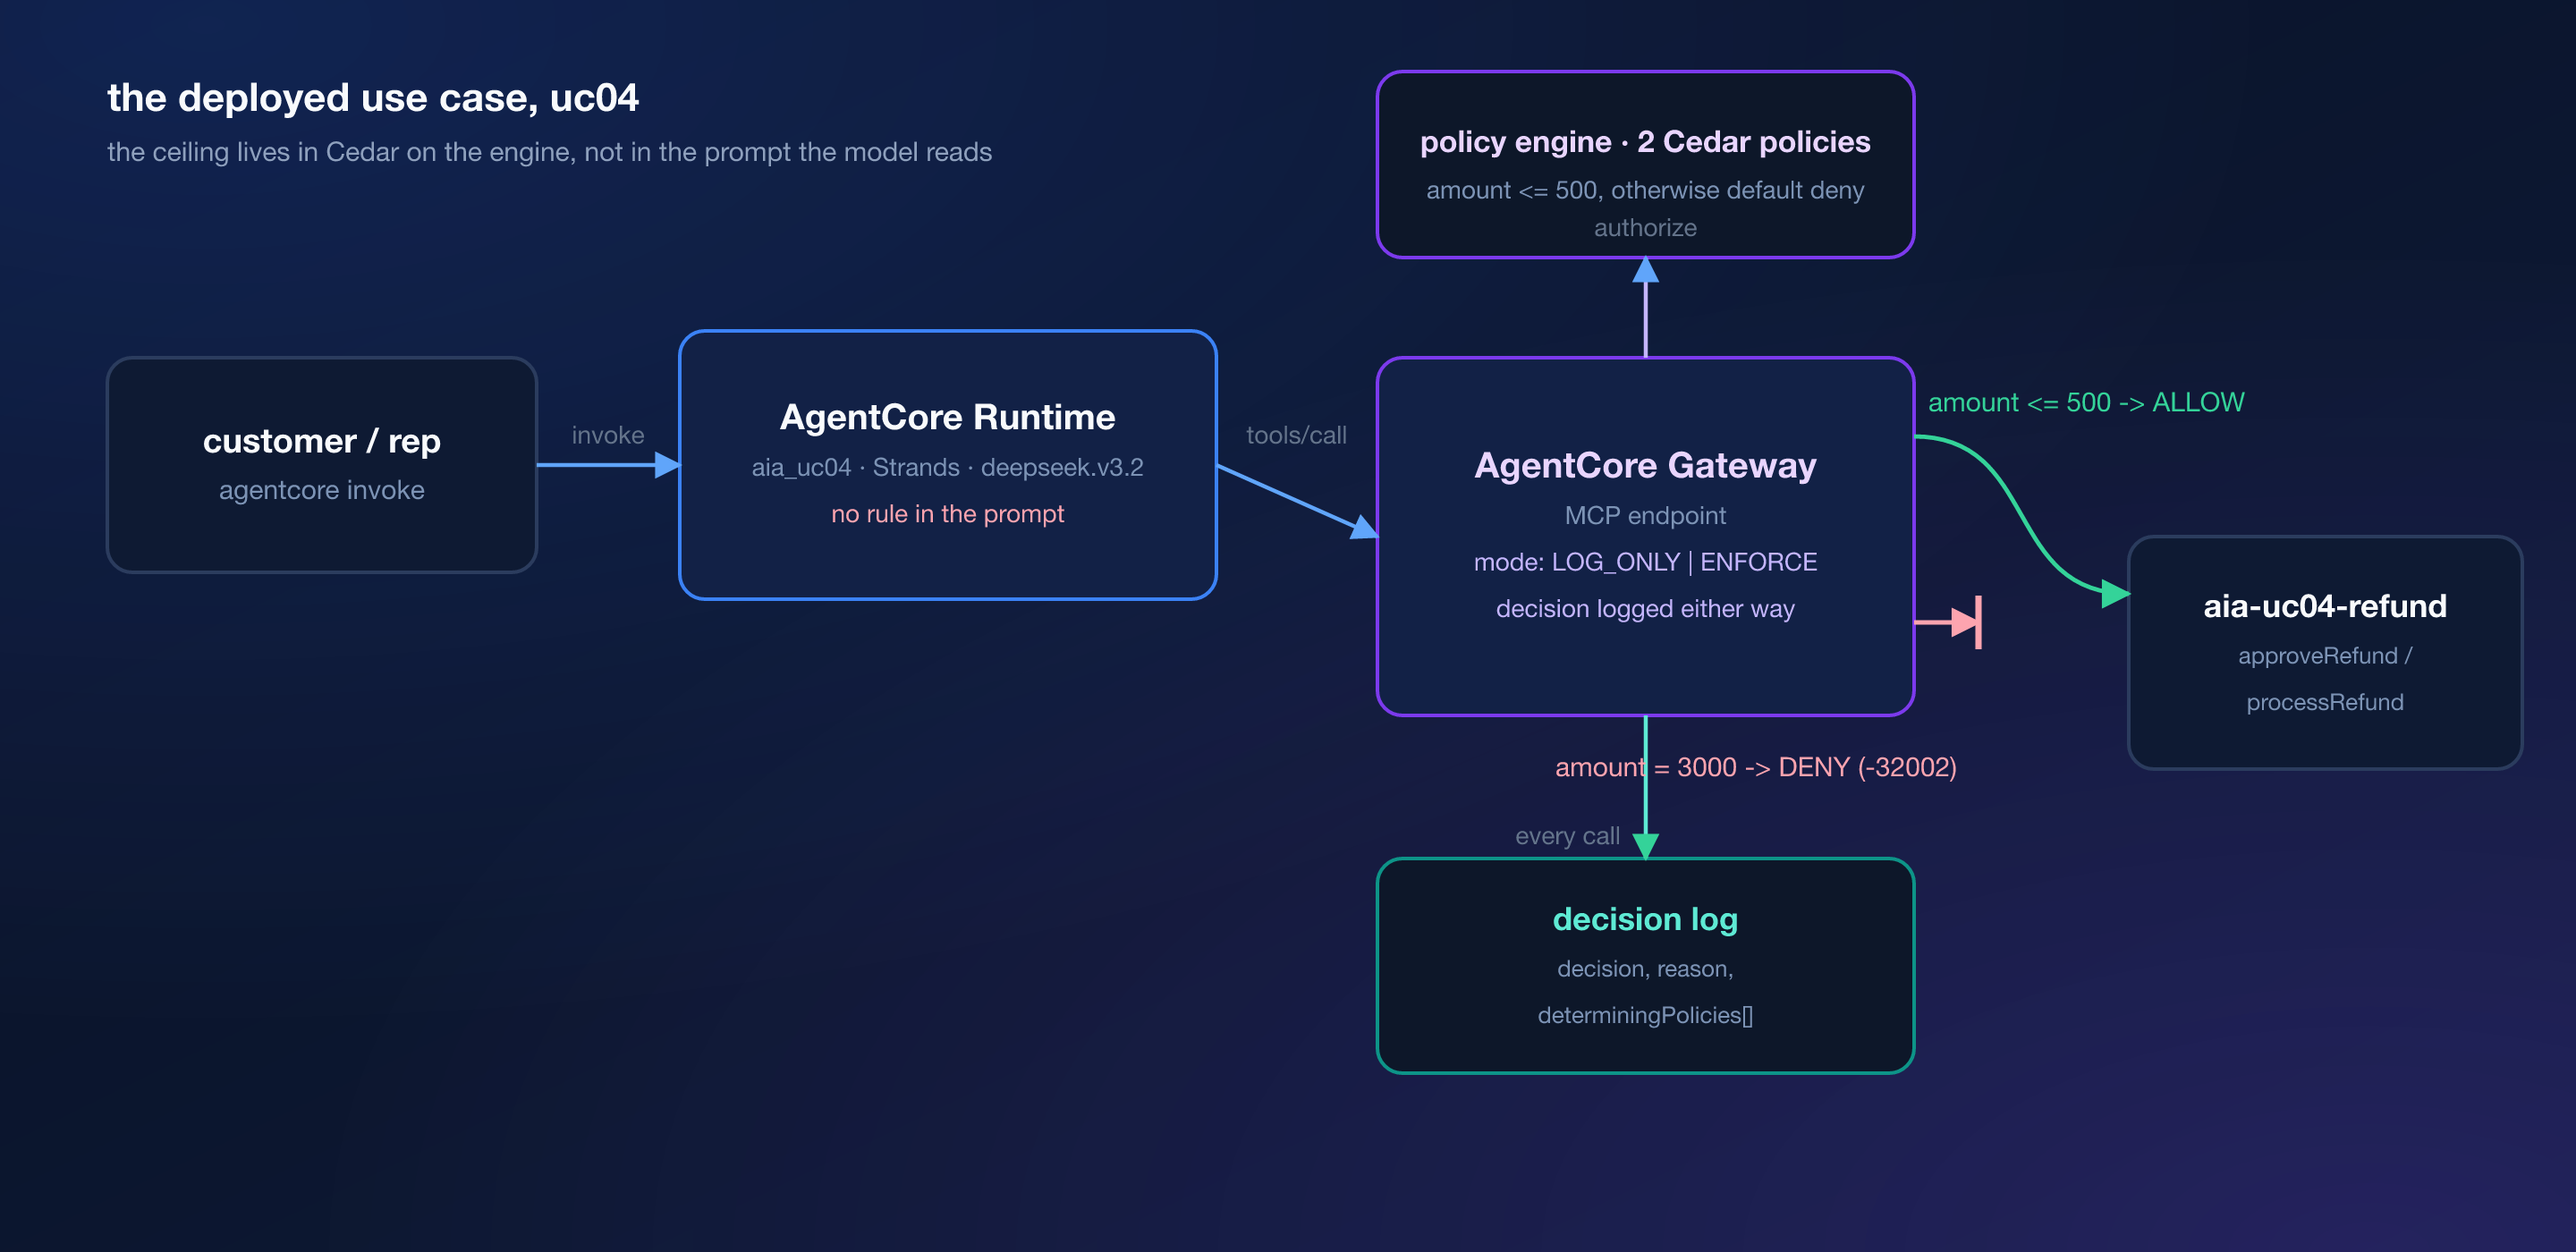
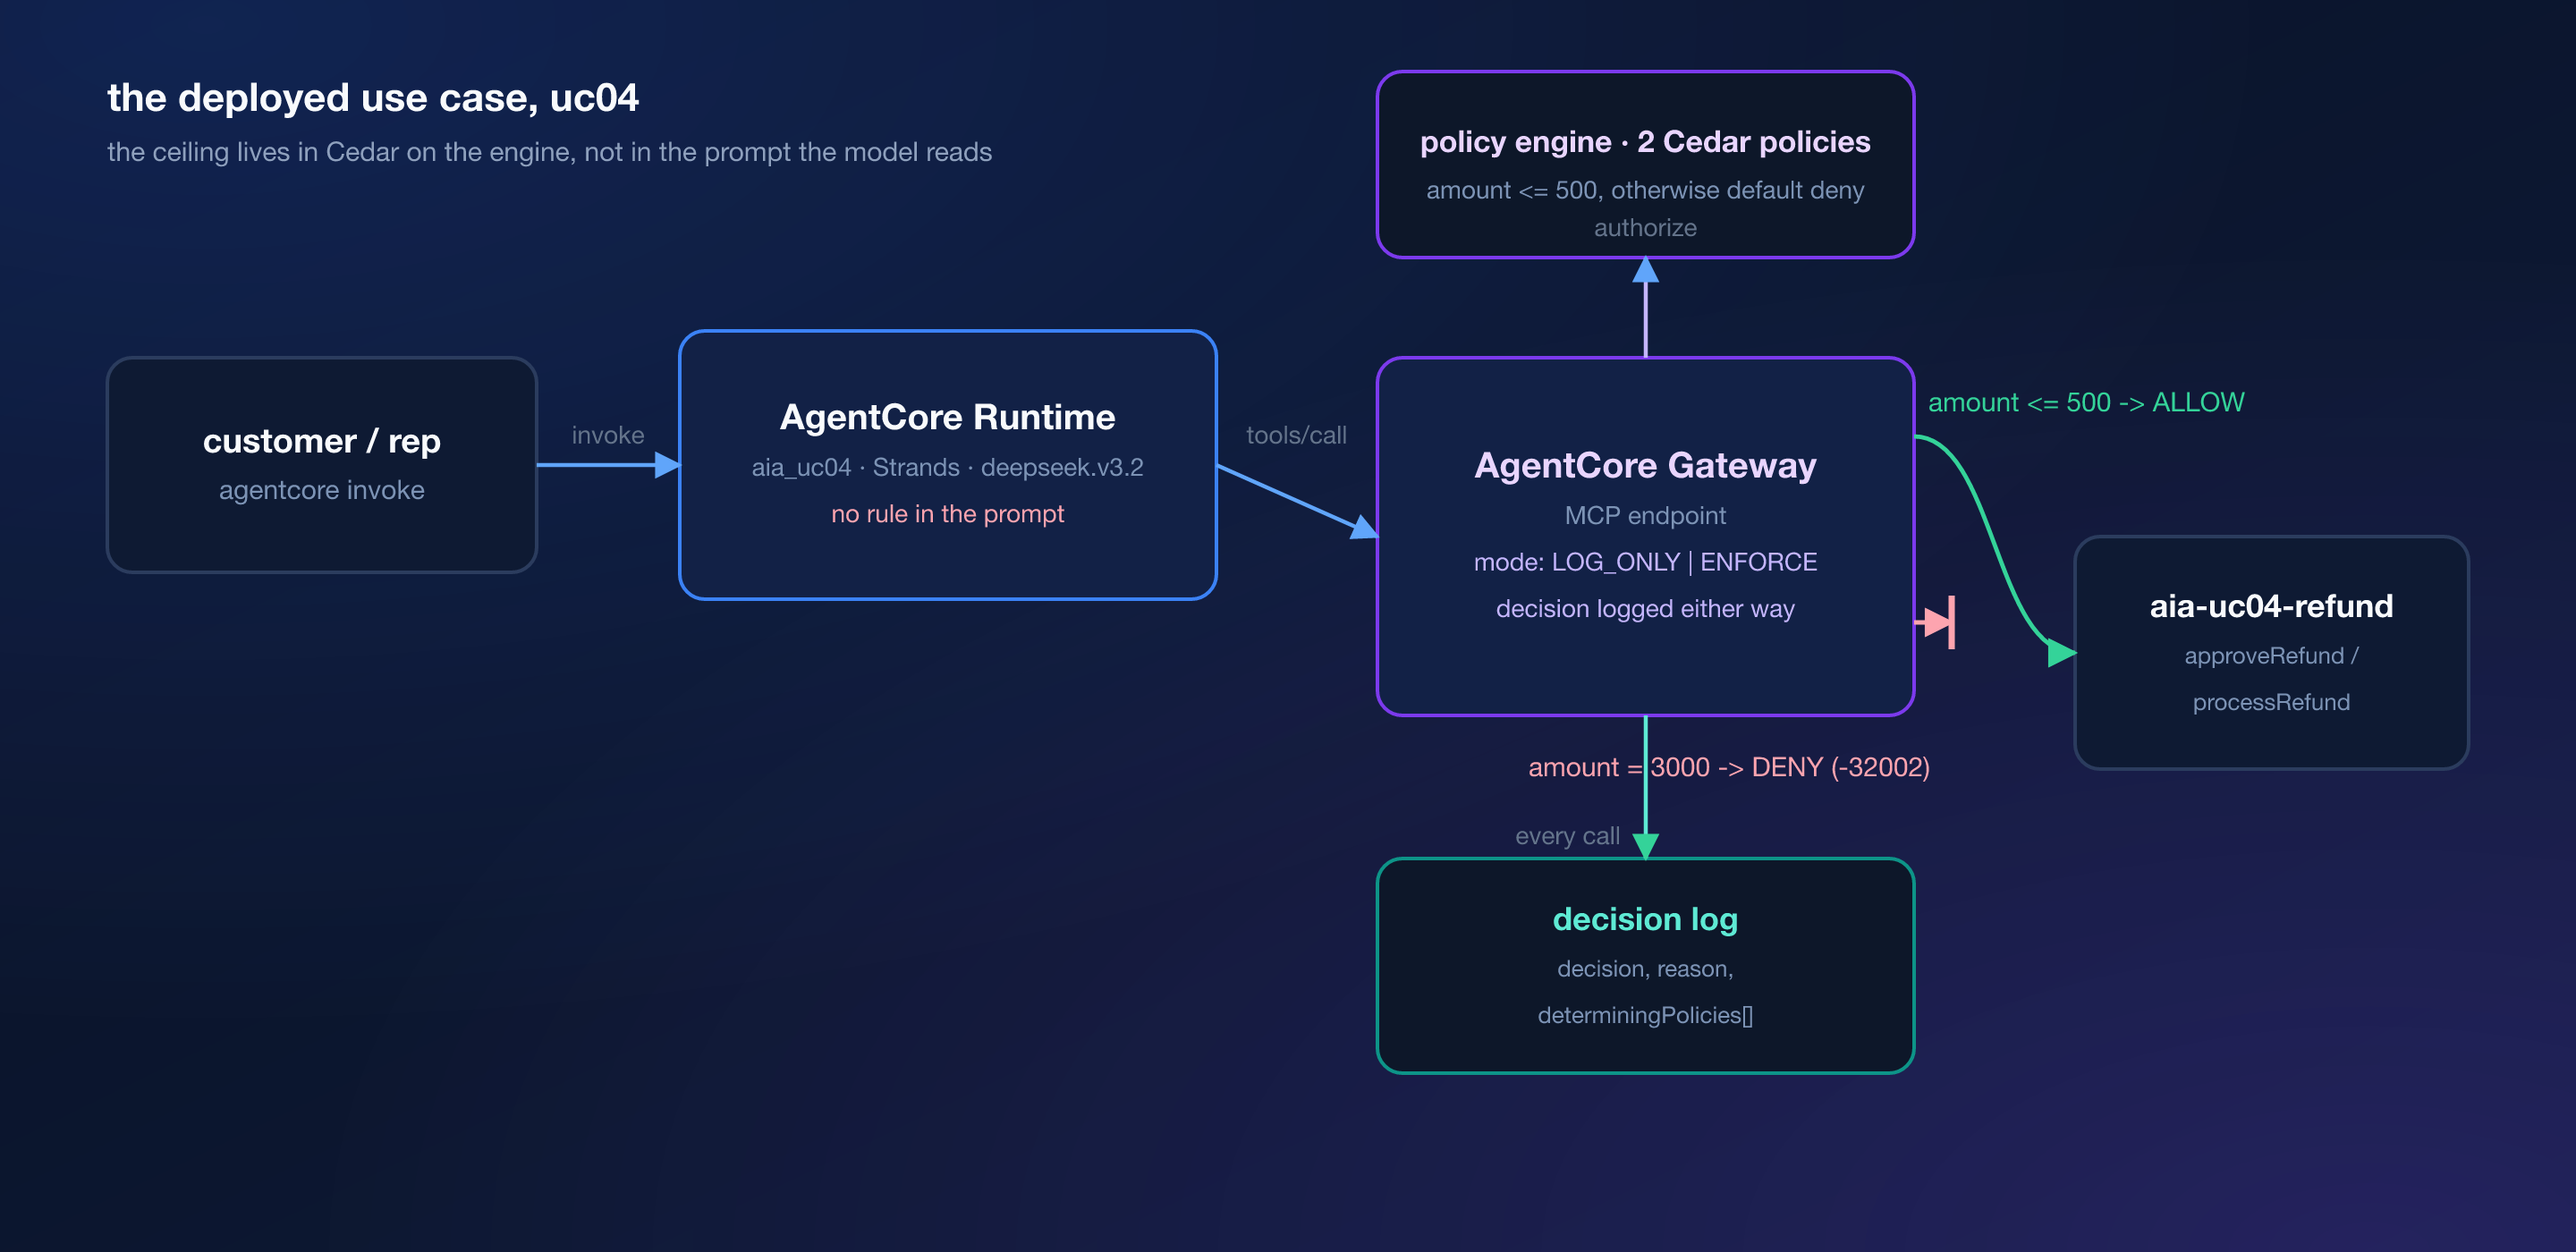
uc04: close verifier defects (figure coverage, S5 command fidelity, S11 tab, F1 geometry)
B1: render D1-backend-setup and D2-gateway-adds from evidence 05/06/07 and
10/11 so every demonstrated command block now has its output figure.
B2: S5 panel was missing --description and --enforcement-mode ACTIVE that
the real commands carried (per the CLI-written contract and README);
panel now matches the article block verbatim.
B3: gen_figures.py stripped tabs before expanding them, so S11 rendered
deny_logonly as 1.02.0; order fixed, panel now shows 1.0  2.0.
J3: F1 ALLOW endpoint recomputed to the backend box centerline, page
margins 60/60. Metrics step now ships policy-decision-queries.json in the
use case folder so the reader can rerun it. Article 1285 words.

Changed region(s): [[0.75, 0.43, 0.9688, 0.5836], [0.5938, 0.5836, 0.75, 0.645], [0.75, 0.3379, 0.7812, 0.3993]]

diff --git a/articles/images/agentcore-policy-enforce-mode/gen_figures.py b/articles/images/agentcore-policy-enforce-mode/gen_figures.py
@@ -63,10 +63,13 @@ def evidence_lines(stem: str) -> list[str]:
         s = line.strip()
         if not s or s and s[0] in SPINNERS:
             continue
-        # strip ANSI escape sequences and any other control characters the capture held
+        # strip ANSI escape sequences and any other control characters the capture
+        # held; tabs become two spaces BEFORE the control-character strip, or the
+        # strip would swallow them (CloudWatch text output separates values with
+        # tabs) and "1.0<TAB>2.0" would render as "1.02.0"
         line = re.sub(r"\x1b\[[0-9;]*[A-Za-z]", "", line)
-        line = "".join(ch for ch in line if ord(ch) >= 32)
         line = line.replace("\t", "  ")
+        line = "".join(ch for ch in line if ord(ch) >= 32)
         out.append(line.rstrip())
     # drop consecutive duplicates the CLI spinner re-prints
     dedup = []
@@ -88,6 +91,8 @@ def classify(line: str) -> str:
     if line.startswith("Session:") or line.startswith("To resume:"):
         return T
     if line.startswith("Log:") or line.startswith("Note:") or line.startswith("Next:"):
+        return D
+    if line.startswith("#"):
         return D
     if line.startswith("$ "):
         return S
@@ -248,7 +253,7 @@ def figure_architecture() -> None:
                 ("MCP endpoint", 14, "#7c93b5", "400"),
                 ("mode: LOG_ONLY | ENFORCE", 14, "#c4b5fd", "400"),
                 ("decision logged either way", 14, "#c4b5fd", "400")])
-    b_lambda = box("lambda", 1190, 300, 220, 130, "#0e1a33", "#2b3c5e",
+    b_lambda = box("lambda", 1160, 300, 220, 130, "#0e1a33", "#2b3c5e",
                    [("aia-uc04-refund", 18, "#f8fafc", "600"),
                     ("approveRefund /", 13, "#7c93b5", "400"),
                     ("processRefund", 13, "#7c93b5", "400")])
@@ -264,10 +269,12 @@ def figure_architecture() -> None:
     label(edge_mid(b_gw, "bottom")[0] - 14, b_log["y"] - 8,
           "every call", 14, "#64748b", "end")
 
-    # allow path: gateway right edge upper half -> lambda left edge upper half
+    # allow path: gateway right edge upper half -> lambda left edge, landing on
+    # the backend box's vertical centerline
     gx = edge_mid(b_gw, "right")[0]; gy = b_gw["y"] + b_gw["h"] * 0.22
-    lx = b_lambda["x"]; ly = b_lambda["y"] + b_lambda["h"] * 0.25
-    out.append(f'<path d="M {gx:.0f} {gy:.0f} C {gx+70:.0f} {gy:.0f}, {lx-70:.0f} {ly:.0f}, {lx:.0f} {ly:.0f}" '
+    lx = b_lambda["x"]; ly = edge_mid(b_lambda, "left")[1]
+    bend = min(70, (lx - gx) / 2)
+    out.append(f'<path d="M {gx:.0f} {gy:.0f} C {gx+bend:.0f} {gy:.0f}, {lx-bend:.0f} {ly:.0f}, {lx:.0f} {ly:.0f}" '
                f'stroke="#34d399" stroke-width="2.4" fill="none" marker-end="url(#ahg)"/>')
     label(gx + 8, gy - 14, "amount <= 500 -> ALLOW", 15, "#34d399", "start")
 
@@ -415,6 +422,64 @@ def cover(w: int, h: int, name: str) -> None:
 # --------------------------------------------------------------------------- #
 
 def panels() -> None:
+    ev05 = evidence_lines("05-create-role.txt")
+    ev06 = evidence_lines("06-create-lambda.txt")
+    role_out = [l for l in ev05 if '"RoleName"' in l or '"Arn"' in l]
+    fn_out = [l for l in ev06 if l.strip().startswith((
+        '"FunctionName"', '"FunctionArn"', '"Runtime"', '"Handler"',
+        '"CodeSize"', '"State"', '"StateReason"',
+    ))]
+    shell_box(
+        "D1-backend-setup", "terminal - the backend: one Lambda, built to be guarded",
+        panel_lines(
+            [
+                "$ aws iam create-role --role-name aia-uc04-lambda \\",
+                "    --assume-role-policy-document '{\"Statement\":[{\"Effect\":\"Allow\",\"Principal\":{\"Service\":\"lambda.amazonaws.com\"},\"Action\":\"sts:AssumeRole\"}]}' \\",
+                "    --region us-east-1",
+            ],
+            role_out,
+        )
+        + panel_lines(
+            [
+                "$ aws iam attach-role-policy --role-name aia-uc04-lambda \\",
+                "    --policy-arn arn:aws:iam::aws:policy/service-role/AWSLambdaBasicExecutionRole --region us-east-1",
+            ],
+            [l for l in ev05 if l == "attached"],
+        )
+        + panel_lines(
+            ["$ zip -j /tmp/aia-uc04-refund.zip infra/refund_api.py"], [],
+        )
+        + panel_lines(
+            [
+                "$ aws lambda create-function --function-name aia-uc04-refund \\",
+                "    --runtime python3.13 --handler refund_api.lambda_handler \\",
+                "    --zip-file fileb:///tmp/aia-uc04-refund.zip \\",
+                "    --role arn:aws:iam::123456789012:role/aia-uc04-lambda --region us-east-1",
+            ],
+            fn_out,
+        )
+        + panel_lines(
+            ["", "# a direct invoke returns the echo — the backend works before any policy exists"],
+            evidence_lines("07-lambda-direct.txt"),
+        ),
+        "evidence/05, 06, 07 · the role, the function Pending, and the direct echo — the backend exists before any gateway does",
+    )
+    shell_box(
+        "D2-gateway-adds", "terminal - the gateway: one add, one line, no authorizer",
+        panel_lines(
+            ["$ agentcore add gateway --name refund-gateway --protocol-type MCP --authorizer-type NONE"],
+            evidence_lines("10-add-gateway.txt"),
+        )
+        + panel_lines(
+            [
+                "$ agentcore add gateway-target --name refund --gateway refund-gateway \\",
+                "    --type lambda-function-arn --lambda-arn arn:aws:lambda:us-east-1:123456789012:function:aia-uc04-refund \\",
+                "    --tool-schema-file agentcore/gateway/refund-tools.json",
+            ],
+            evidence_lines("11-add-target.txt"),
+        ),
+        "evidence/10-add-gateway.txt, 11-add-target.txt · the target points at the Lambda; the two tool schemas come from refund-tools.json",
+    )
     shell_box(
         "S1-deploy", "terminal - agentcore deploy, first successful deploy (3 m 8 s)",
         panel_lines(["$ agentcore deploy -y --target default"], evidence_lines("15-deploy-2.log")),
@@ -445,24 +510,27 @@ def panels() -> None:
         "S5-policy-add", "terminal - the engine, then two Cedar policies written from natural language",
         panel_lines(
             [
-                "$ agentcore add policy-engine --name refundPolicyEngine --attach-to-gateways refund-gateway \\",
-                "    --attach-mode LOG_ONLY --json",
+                "$ agentcore add policy-engine --name refundPolicyEngine \\",
+                '    --description "Refund ceiling for the refund gateway" \\',
+                "    --attach-to-gateways refund-gateway --attach-mode LOG_ONLY --json",
             ],
             evidence_lines("20-add-policy-engine.txt"),
         )
         + panel_lines(
             [
                 "$ agentcore add policy --name refundCeiling --engine refundPolicyEngine \\",
+                '    --description "Refunds are permitted up to CNY 500; anything above falls through to default deny" \\',
                 '    -g "permit a processRefund tool call only when its amount argument is less than or equal to 500" \\',
-                "    --gateway refund-gateway --target refund --json",
+                "    --gateway refund-gateway --target refund --enforcement-mode ACTIVE --json",
             ],
             evidence_lines("21-add-policy.txt"),
         )
         + panel_lines(
             [
                 "$ agentcore add policy --name approvalAlways --engine refundPolicyEngine \\",
+                '    --description "Recording an approval is allowed whenever the order id is present" \\',
                 '    -g "permit an approveRefund tool call only when its orderId argument is a non-empty string" \\',
-                "    --gateway refund-gateway --target refund --json",
+                "    --gateway refund-gateway --target refund --enforcement-mode ACTIVE --json",
             ],
             evidence_lines("21b-add-approval-policy.txt"),
         ),

diff --git a/articles/agentcore-policy-enforce-mode.md b/articles/agentcore-policy-enforce-mode.md
@@ -10,7 +10,7 @@ cover:
   alt: "Cover art: one gateway, two Cedar policies, a CNY 3000 call stopped at the gate while CNY 200 passes through"
 ---
 
-A refund assistant whose only rule is a sentence in its prompt will issue a CNY 3000 refund the moment a customer insists: the sentence is a suggestion, not a gate. This article replaces the sentence with a Cedar policy on an AgentCore Gateway and proves it three ways: the same CNY 3000 call runs anyway while the policy engine writes DENY beside it, one mode switch kills it at the gateway with a 47-millisecond decision, and it stays dead when called directly, no agent in the loop. CNY 200 passes every gate untouched, no code changed between verdicts. Every number was measured in one account, in `us-east-1`.
+A refund assistant whose only rule is a sentence in its prompt will issue a CNY 3000 refund the moment a customer insists: the sentence is a suggestion, not a gate. This article replaces the sentence with a Cedar policy on an AgentCore Gateway and proves it three ways: the same CNY 3000 call runs anyway while the policy engine writes DENY beside it, one mode switch kills it at the gateway with a 47-millisecond decision, and it stays dead when called directly, no agent in the loop. CNY 200 passes every gate untouched, no code changed between verdicts. Every number was measured in one account, `us-east-1`.
 
 ## The use case
 
@@ -85,7 +85,9 @@ aws lambda create-function --function-name aia-uc04-refund \
   --role arn:aws:iam::123456789012:role/aia-uc04-lambda --region us-east-1
 ```
 
-A direct invoke returns the echo `{"ok": true, "approved": true, ...}`: the backend works before any policy exists. Then the gateway, deliberately minimal: one target, two tools, no authorizer.
+![Terminal capture: the role created with its Arn, the policy attached, create-function answering State Pending, and the direct invoke echo](/images/agentcore-policy-enforce-mode/D1-backend-setup.png)
+
+The backend works before any policy exists. Then the gateway, deliberately minimal: one target, two tools, no authorizer.
 
 ```bash
 agentcore add gateway --name refund-gateway --protocol-type MCP --authorizer-type NONE
@@ -94,7 +96,9 @@ agentcore add gateway-target --name refund --gateway refund-gateway \
   --tool-schema-file agentcore/gateway/refund-tools.json
 ```
 
-Each add answers one line. Deploy:
+![Terminal capture: each add answers one line, Added gateway refund-gateway and Added gateway target refund](/images/agentcore-policy-enforce-mode/D2-gateway-adds.png)
+
+Deploy:
 
 ```bash
 agentcore deploy -y --target default
@@ -189,7 +193,7 @@ curl -s -X POST "$GATEWAY_URL" -d '{"jsonrpc":"2.0","id":2,"method":"tools/call"
 
 ![Terminal capture: direct MCP calls, 3000 denied with error -32002, 200 refunded](/images/agentcore-policy-enforce-mode/S10-direct-mcp.png)
 
-CNY 3000 died with JSON-RPC error -32002, Tool Execution Denied; the identical call at CNY 200 returned `RF-2774812797`. The policy sits on the path, not the agent. The counts, from CloudWatch — the queries file selects DenyDecisions and AllowDecisions on the PolicyEngine dimension, split by window:
+CNY 3000 died with JSON-RPC error -32002, Tool Execution Denied; the identical call at CNY 200 returned `RF-2774812797`. The policy sits on the path, not the agent. The counts, from CloudWatch — the queries file ships in the repo's use case folder and selects DenyDecisions and AllowDecisions on the PolicyEngine and Mode dimensions:
 
 ```bash
 aws cloudwatch get-metric-data --region us-east-1 \
@@ -208,7 +212,7 @@ Teardown is two stages; only both leave the account clean. Agentcore's: `agentco
 
 ![Diagram: the policy engine attached to the gateway, every tools/call authorized before the Lambda runs](/images/agentcore-policy-enforce-mode/F1-policy-architecture.png)
 
-Six refunds were issued across the session, one stopped: `RF-2772903637` and `RF-2774152577` prove the ceiling was first absent, then ignored; `RF-2774662593` and `RF-2774812797` prove CNY 200 kept passing after ENFORCE, through the agent and around it. The 3000 call died both ways: a denied tool call the agent had to report, and error -32002 on the direct wire. Every ALLOW in the log names the policy that made it. A tag listing showed six resources, all UseCase=04, nothing from another use case.
+Six refunds were issued across the session, one stopped: `RF-2772903637` and `RF-2774152577` prove the ceiling was first absent, then ignored; `RF-2774662593` and `RF-2774812797` prove CNY 200 kept passing after ENFORCE, through the agent and around it. The 3000 call died both ways: a denied tool call the agent had to report, and error -32002 on the direct wire. Every ALLOW in the log names the policy that made it. A tag listing showed six resources, all UseCase=04, nothing else.
 
 ## Troubleshooting
 
